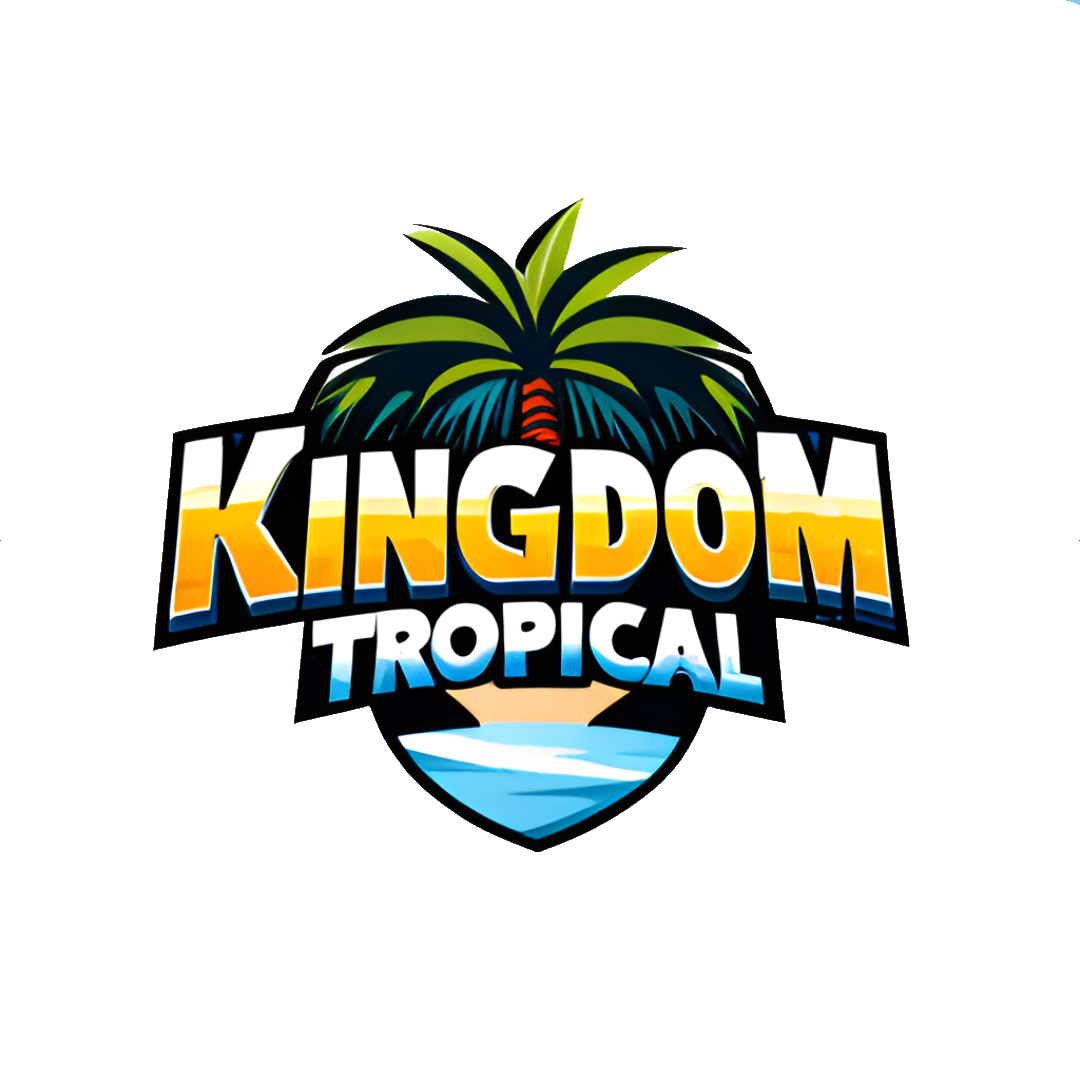
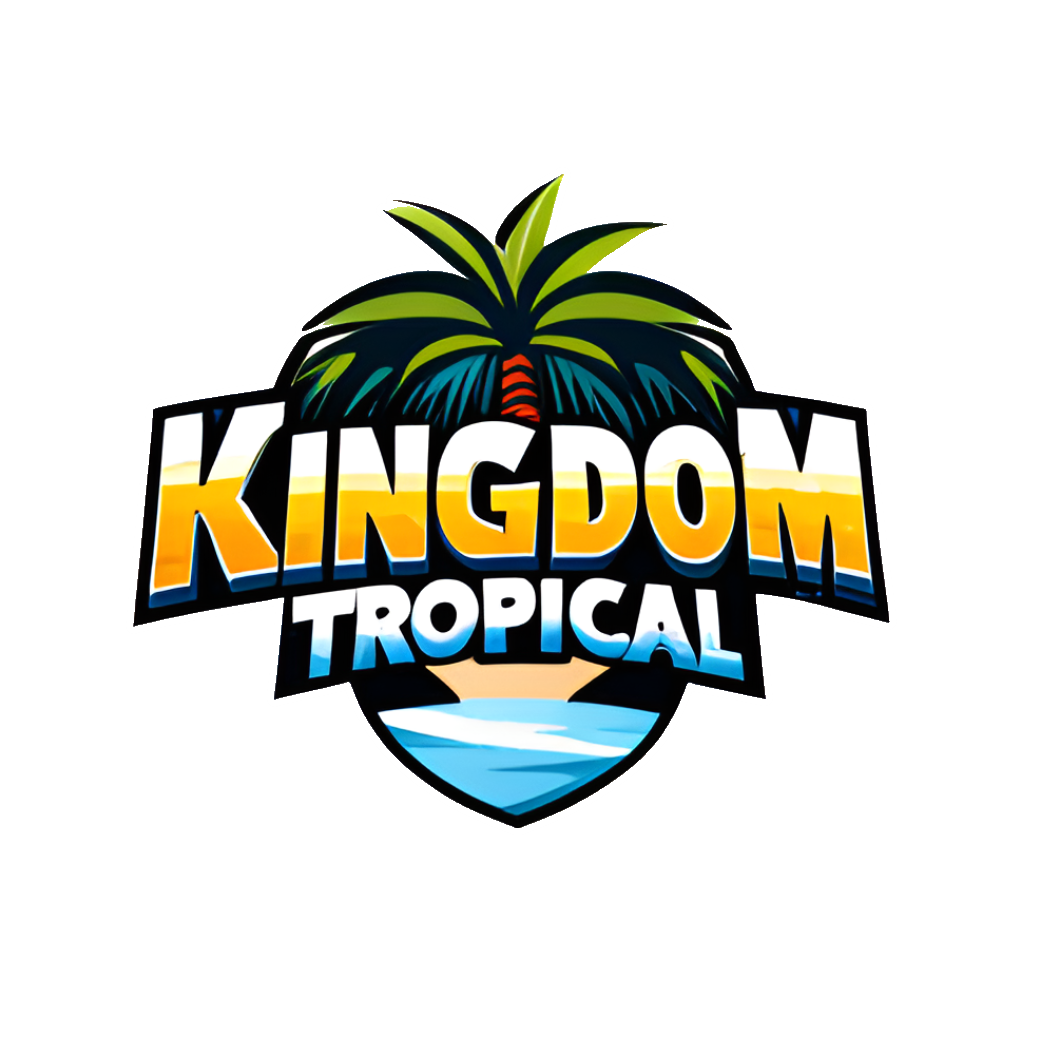
commit do pedro santos

Changed region(s): [[0.1233, 0.1541, 0.8632, 0.8015]]

diff --git a/index.html b/index.html
@@ -29,10 +29,10 @@
         </ul>
         </a>
     </div>
+    <div class="container">
+      <img src="Novo Projeto (25).png" width="550px">      
+    </div>
 </header>
-<div class="fundo">
-  <img src="Novo Projeto (25).png">
-</div>
 <section></section>
 
 
@@ -42,7 +42,7 @@
   <main>
     <!-- Slides -->
     <section id="slides">
-      <img src="Novo Projeto (25).png" alt="Slide 1" id="img1">
+      <img src="" alt="Slide 1" id="img1">
       <img src="images/slide2.jpg" alt="Slide 2">
       <img src="images/slide3.jpg" alt="Slide 3">
     </section>
@@ -141,12 +141,19 @@
   width: 110px;
   }
 
-  #img1{
-    width: 500px;
-    margin-left: 375px;
-  }
-  #slides{
-    background-color: rgba(3, 134, 186, 1);
-  }
+header{
+  background-image: url(https://www.servidoresdehortolandia.com.br/uploads/images/2022/01/thermas-water-park-sao-pedro-fbc32.png);
+  height: 77vh;
+
+  background-attachment: fixed;
+}
+.container{
+  display: flex;
+  align-items: center;
+  justify-content: center;
+  height: 85%;
+
+  background: #0386BAb6;
+}
   </style>
 </html>
